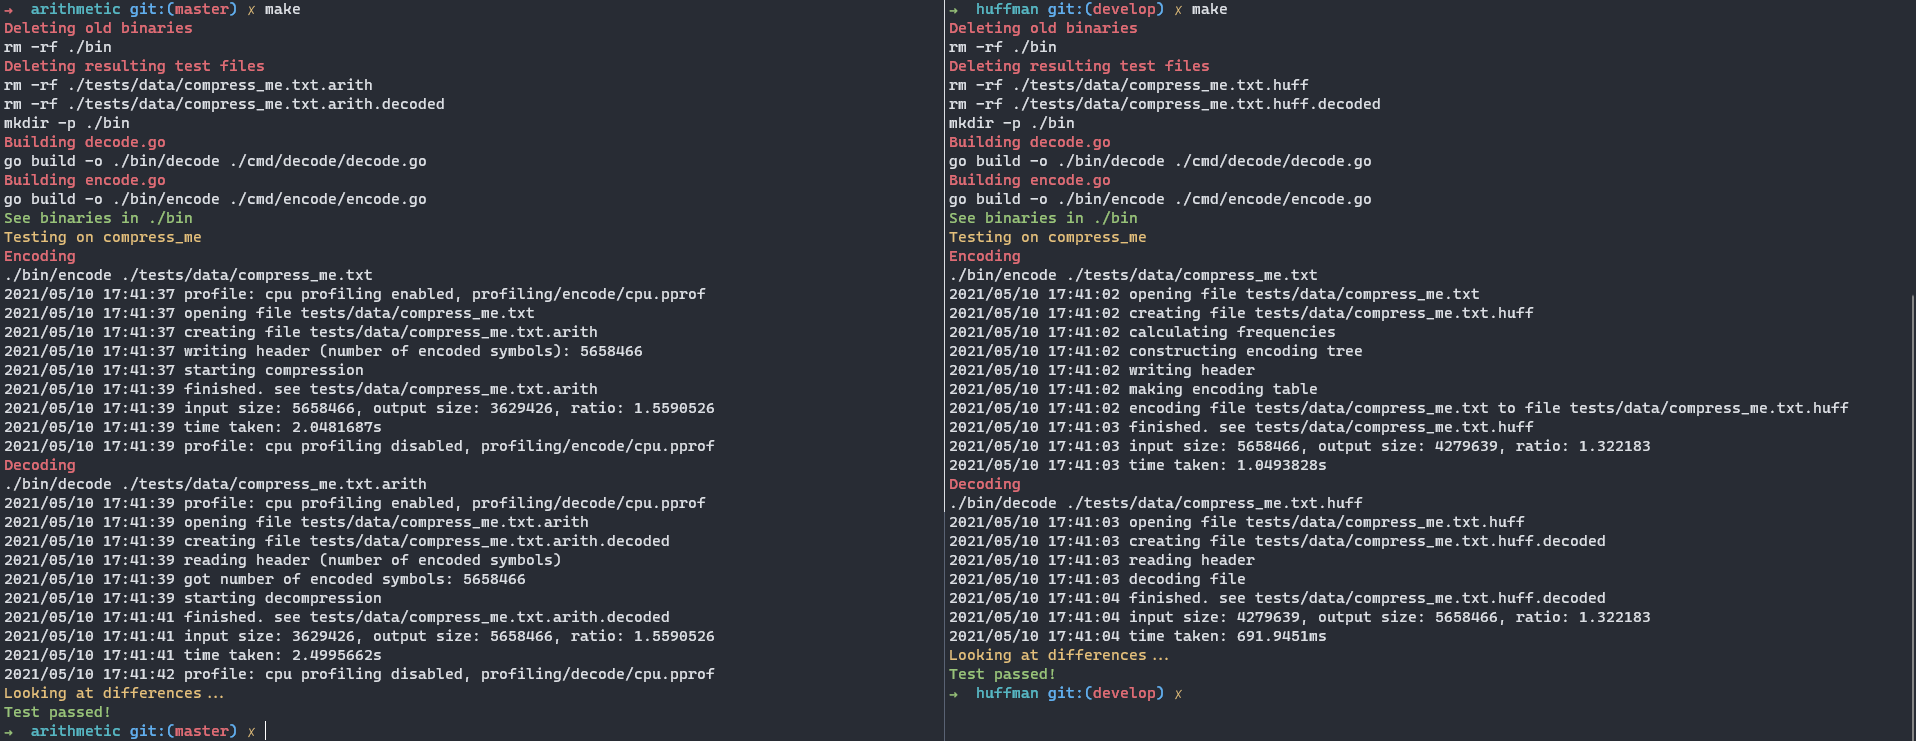
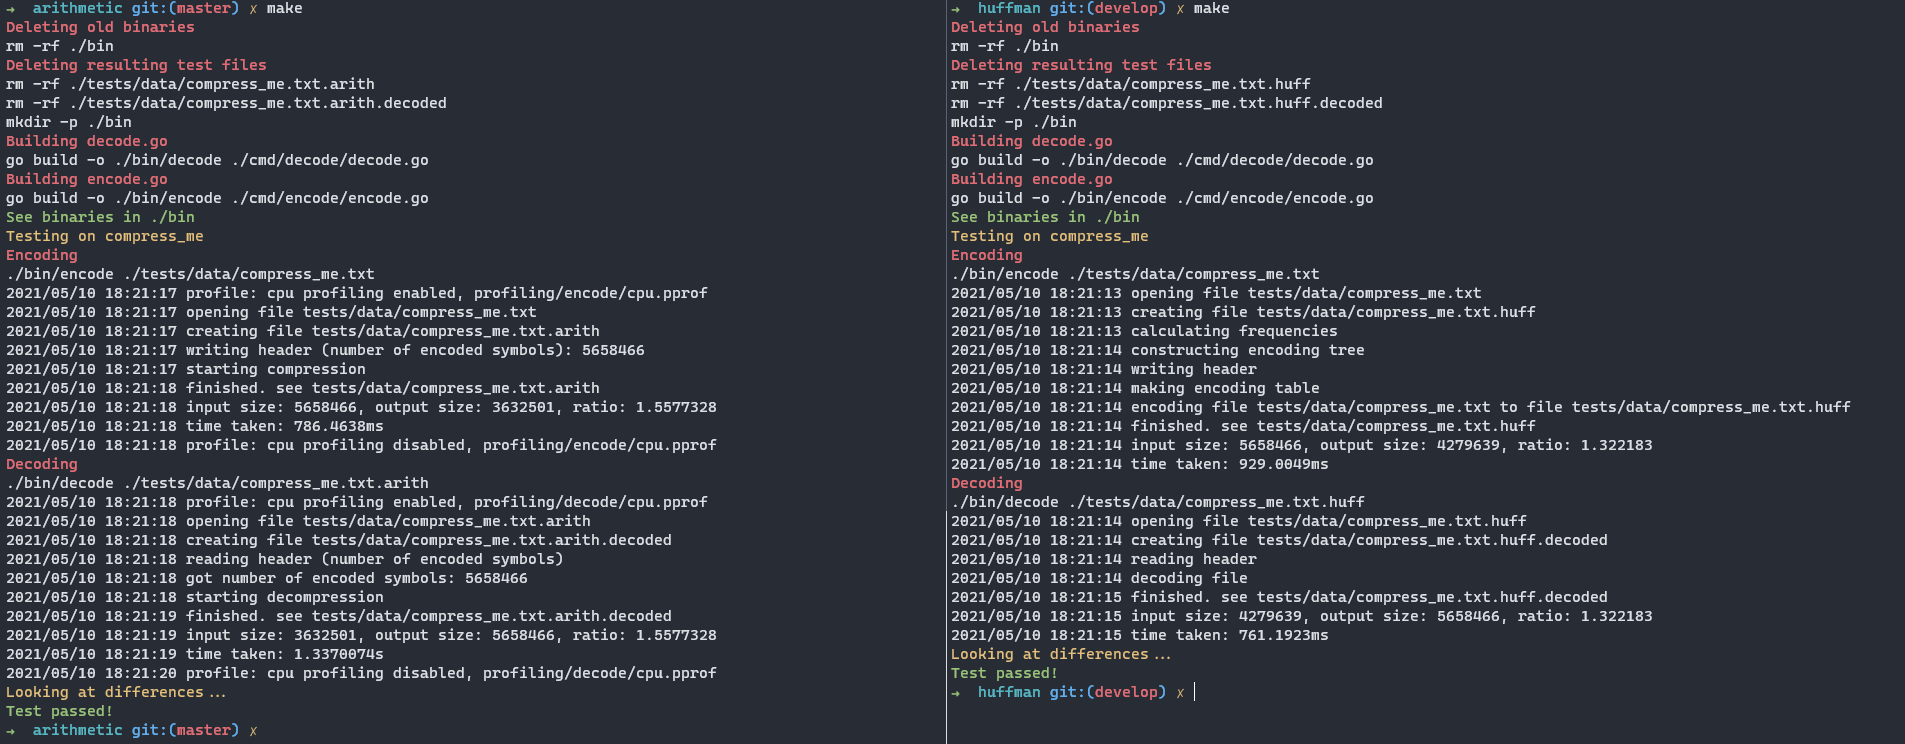
Make range updates rate configurable

Changed region(s): [[0.0, 0.0, 0.3717, 0.9933], [0.4955, 0.0, 1.0, 1.0]]

diff --git a/internal/pkg/table/table.go b/internal/pkg/table/table.go
@@ -27,14 +27,15 @@ func NewTable() *Table {
 	return t
 }
 
-// updateRanges makes symbols ranges valid
-func (t *Table) updateRanges(fromSymbol uint8) {
+// UpdateRanges makes symbols ranges valid
+func (t *Table) UpdateRanges(fromSymbol uint8) {
 	for i := uint(fromSymbol) + 1; i <= ABCSize; i++ {
 		t.interval[i] = t.interval[i-1] + t.count[i]
 	}
 }
 
-// UpdateCount updates symbol count and ranges
+// UpdateCount updates symbol count and normalizes them when t.totalCount >= maxTotalCount
+// Also updates ranges after normalizing
 // If Table.totalCount is too big, Table.count are normalized
 func (t *Table) UpdateCount(symbol uint8) {
 	t.count[symbol+1]++
@@ -53,11 +54,9 @@ func (t *Table) UpdateCount(symbol uint8) {
 			t.totalCount += t.count[i]
 		}
 
-		t.updateRanges(0)
+		t.UpdateRanges(0)
 		return
 	}
-
-	t.updateRanges(symbol)
 }
 
 // GetInterval returns interval end for given symbol

diff --git a/cmd/decode/decode.go b/cmd/decode/decode.go
@@ -75,7 +75,7 @@ func main() {
 
 	l := uint64(0)
 	h := top
-	for i := uint64(0); i < nEncoded; i++ {
+	for i := uint64(1); i <= nEncoded; i++ {
 		denom := t.GetInterval(table.ABCSize - 1)
 
 		delta := h - l + 1
@@ -118,6 +118,9 @@ func main() {
 		}
 
 		t.UpdateCount(symbol)
+		if i%config.UpdateRangesRate == 0 {
+			t.UpdateRanges(0)
+		}
 		if err = out.WriteByte(symbol); err != nil {
 			fmt.Fprintf(os.Stderr, "got error while writting to output file: %v\n", err)
 			return

diff --git a/cmd/encode/encode.go b/cmd/encode/encode.go
@@ -98,6 +98,7 @@ func main() {
 
 	log.Println("starting compression")
 	v, err := in.ReadByte()
+	nEncoded := 0
 	for err == nil {
 		denom := t.GetInterval(table.ABCSize - 1)
 		delta := h - l + 1
@@ -138,6 +139,10 @@ func main() {
 		}
 
 		t.UpdateCount(v)
+		nEncoded += 1
+		if nEncoded%config.UpdateRangesRate == 0 {
+			t.UpdateRanges(0)
+		}
 		v, err = in.ReadByte()
 	}
 

diff --git a/internal/pkg/config/config.go b/internal/pkg/config/config.go
@@ -11,3 +11,6 @@ const CountDenominator = 2
 
 // CountBitsUsed determines bits for maximal sum of all symbol counts
 const CountBitsUsed = 16
+
+// UpdateRangesRate determines how often ranges are recalculated
+const UpdateRangesRate = 1000
